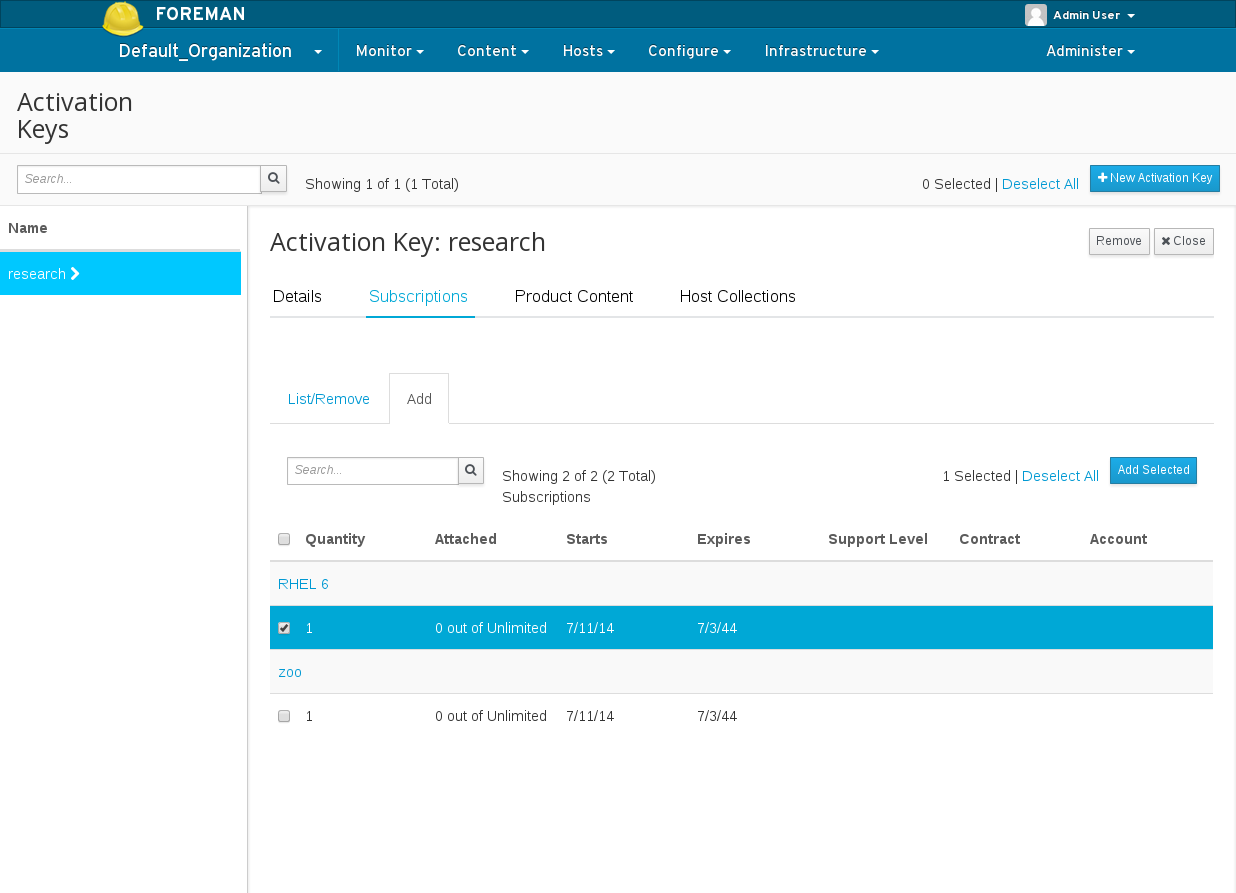
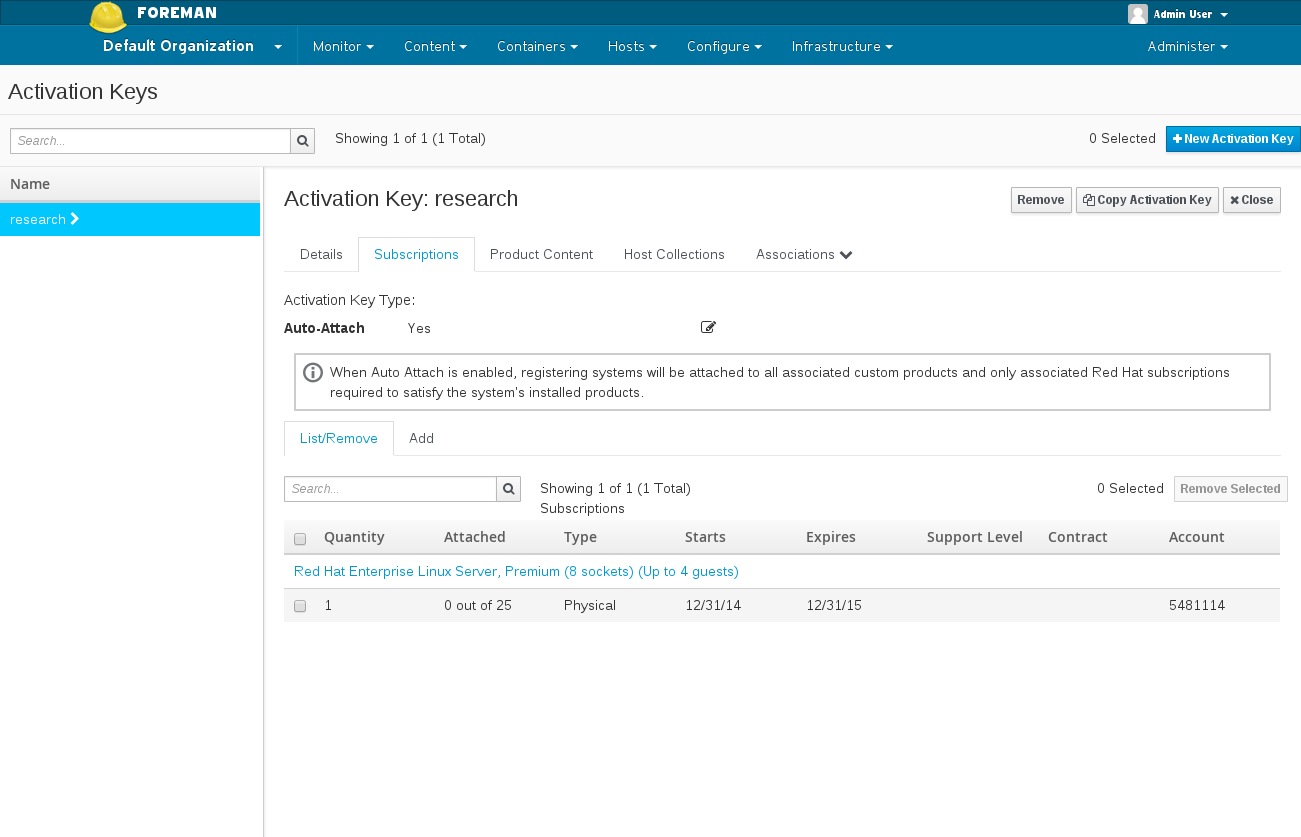
activation key user guide updates

diff --git a/docs/user_guide/activation_keys/index.md b/docs/user_guide/activation_keys/index.md
@@ -37,11 +37,29 @@ To create a new key,
 - navigate to: Content > Activation Keys
 - click **New Activation Key**
 
-Note the following option:
-
-- *Content Host Limit*: This option will control how many Content Hosts may be registered using the key.
-
 ![Creating a Host Collection](./activation_key_create.png)
+
+- *Name*: This required option has few restrictions on format. However, since this name is used to identify the activation key to command line tools such as *subscription-manager* including spaces and non-ascii characters will need special consideration in such uses.
+
+- *Content Host Limit*: This option will control how many Content Hosts may be registered using the key. An "unlimited" value will not place any limits on usage. Specifying a quantity will limit the number of registered content hosts. Registering with an activation key consumes one of the available limit quantity, while unregistering makes it available again. (ie. This quantity is not a usage counter but a limit of actively registered content hosts.)
+
+- *Description*: A free form description.
+
+- *Environment* and *Content View*: Although optional, at least one activation key used during registration must specify a content view. Taken in order specified to *subscription-manager*, the last activation key with a content view takes precedence.
+
+The following example would use CV_B's content view:
+
+```
+subscription-manager register --org Default_Organization --activationkey NO_CV --activationkey CV_A --activationkey CV_B
+```
+
+Or equivalently:
+
+```
+subscription-manager register --org Default_Organization --activationkey NO_CV,CV_A,CV_B
+```
+
+For registration to succeed, at least one activation key must be successfully applied. For an activation key to succeed, at least one of the listed subscriptions must be successfully attached to the registering content host.
 
 ## Add Subscriptions to an Activation Key
 
@@ -54,7 +72,21 @@ To add subscriptions to a key:
 - select the Subscriptions you would like to add
 - click **Add Selected**
 
+The **Auto-Attach** setting controls how the group of subscriptions are processed during registration.
+
+When 'Auto-Attach' is enabled but no subscriptions are added to the activation key, subscriptions will be automatically added to cover the installed products. This is equivalent to passing the '--auto-attach' flag to the subscription-manager command:
+
+```
+subscription-manager register --org=Default_Organization --auto-attach
+```
+
+When 'Auto-Attach' is enabled and subscriptions are listed for the activation key, two things will happen. First all subscriptions for custom products will be attached to the registering content host. Second, the group of Red Hat subscriptions will be attached as needed to cover the content host's installed Red Hat products. This is most commonly used when there is a group of similar subscriptions (eg. several Red Hat Enterprise Linux from different contracts, or guest subscriptions from different hypervisors) and which one used is not important. Katello's subscription tooling, [Candlepin](http://candlepin.org), will automatically choose the minimal proper subscriptions from the group.
+
+Finally, when 'Auto-Attach' is disabled, all subscriptions on the activation key will attached to the registering content host, regardless of whether needed to cover an installed product or not. For example, adding an OpenStack Platform subscription would then allow that product to be installed after registration.
+
 ![Adding subscriptions to an Activation Key](./activation_key_add_subscriptions.png)
+
+
 
 ## Change Repository Enablement for an Activation Key
 
@@ -88,4 +120,12 @@ To add Host Collections to a key:
 
 ## Register a Content Host using an Activation Key
 
+The simplest form of registering a content host with an activation key is this:
+
+```
+subscription-manager register --org=Default_Organization --activationkey=$KEY_NAME
+```
+
 [Click here for more information](../content_hosts/index.html#how-is-a-content-host-registered)
+
+Note that modifying an activation key does not change anything on content hosts previously registered with the key.
